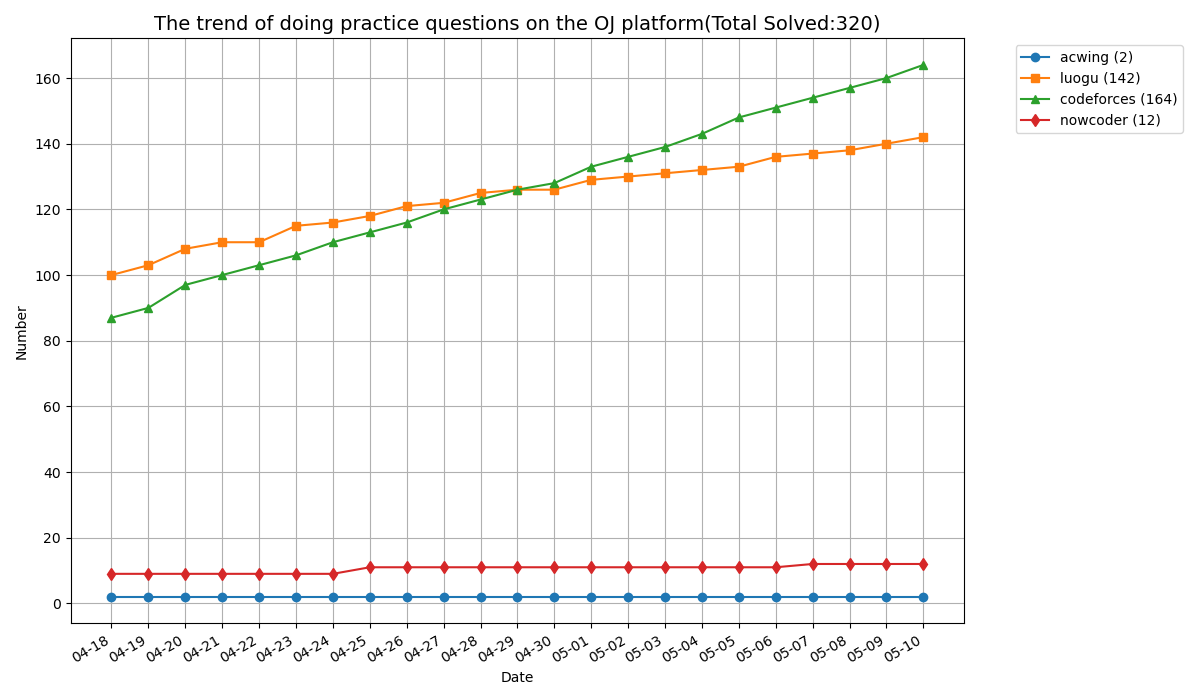
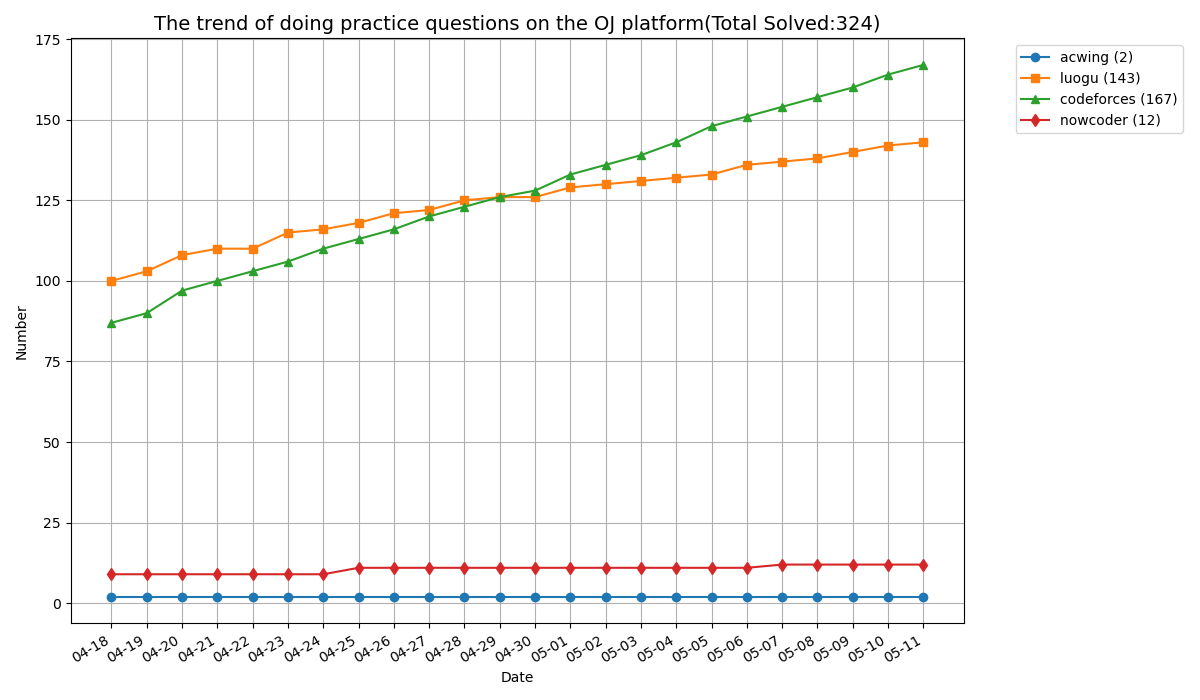
update

diff --git a/luogu/P1571/main.cpp b/luogu/P1571/main.cpp
@@ -1,0 +1,98 @@
+#include <bits/stdc++.h>
+using namespace std;
+
+#define ALL(x) (x).begin(), (x).end()
+#define MAXV(a, l, r) *std::max_element((a).begin() + (l), (a).begin() + (r))
+#define MINV(a, l, r) *std::min_element((a).begin() + (l), (a).begin() + (r))
+
+using ll = long long int;
+using ull = unsigned long long int;
+using PII = pair<int, int>;
+
+#define DEBUG
+#ifdef DEBUG
+template <typename Container>
+void PrintCon(const Container &cont)
+{
+    std::cout << "{ ";
+    if (!cont.empty())
+    {
+        auto it = cont.begin();
+        std::cout << "\033[33m" << *it++ << "\033[0m";
+        for (; it != cont.end(); ++it)
+            std::cout << " | " << "\033[33m" << *it << "\033[0m";
+    }
+    std::cout << " }" << std::endl;
+}
+
+template <typename... Args>
+void LOG(Args &&...values)
+{
+    ((std::cout << "\033[33m" << std::forward<Args>(values) << "\033[0m" << " "), ...);
+    std::cout << std::endl;
+}
+
+#else
+
+template <typename... Args>
+void LOG(Args &...args);
+template <typename Container>
+void PrintCon(const Container &cont);
+
+#endif
+
+bool BS(ll x, const vector<ll>& a)
+{
+    int l = -1, r = a.size();
+    while (l + 1 != r)
+    {
+        int mid = l + r >> 1;
+        if (a[mid] == x)
+        {
+            return true;
+        }
+        if (a[mid] >= x)
+        {
+            r = mid;
+        }
+        else
+        {
+            l = mid;
+        }
+    }
+
+    if (a[r] == x)
+    {
+        return true;
+    }
+    else
+    {
+        return false;
+    }
+}
+
+int main()
+{
+    ios::sync_with_stdio(false);
+    cin.tie(nullptr);
+    int n, m;
+    cin >> n >> m;
+    vector<ll> a(n), b(m);
+    for (int i = 0; i < n; i++)
+    {
+        cin >> a[i];
+    }
+    for (int i = 0; i < m; i++)
+    {
+        cin >> b[i];
+    }
+    sort(ALL(b));
+    for (auto i : a)
+    {
+        if (BS(i, b))
+        {
+            cout << i << ' ';
+        }
+    }
+    return 0;
+}

diff --git a/codeforces/155A/main.cpp b/codeforces/155A/main.cpp
@@ -1,0 +1,71 @@
+#include <bits/stdc++.h>
+using namespace std;
+
+#define ALL(x) (x).begin(), (x).end()
+#define MAXV(a, l, r) *std::max_element((a).begin() + (l), (a).begin() + (r))
+#define MINV(a, l, r) *std::min_element((a).begin() + (l), (a).begin() + (r))
+
+using ll = long long int;
+using ull = unsigned long long int;
+using PII = pair<int, int>;
+
+#define DEBUG
+#ifdef DEBUG
+template <typename Container>
+void PrintCon(const Container &cont)
+{
+    std::cout << "{ ";
+    if (!cont.empty())
+    {
+        auto it = cont.begin();
+        std::cout << "\033[33m" << *it++ << "\033[0m";
+        for (; it != cont.end(); ++it)
+            std::cout << " | " << "\033[33m" << *it << "\033[0m";
+    }
+    std::cout << " }" << std::endl;
+}
+
+template <typename... Args>
+void LOG(Args &&...values)
+{
+    ((std::cout << "\033[33m" << std::forward<Args>(values) << "\033[0m" << " "), ...);
+    std::cout << std::endl;
+}
+
+#else
+
+template <typename... Args>
+void LOG(Args &...args);
+template <typename Container>
+void PrintCon(const Container &cont);
+
+#endif
+
+int main()
+{
+    ios::sync_with_stdio(false);
+    cin.tie(nullptr);
+    int n;
+    cin >> n;
+    vector<int> a(n);
+    for (int i = 0; i < n; i++)
+    {
+        cin >> a[i];
+    }
+    int ans = 0, flag = 0;
+    for (int i = 1; i < n; i++)
+    {
+        for (int j = 0; j < i; j++)
+        {
+            if (a[i] > a[j])
+                flag++;
+            else if (a[i] < a[j])
+                flag--;
+        }
+        if (flag == i || flag == 0 - i)
+            ans++;
+        flag = 0;
+    }
+    cout << ans; 
+    return 0;
+}

diff --git a/codeforces/1703A/main.cpp b/codeforces/1703A/main.cpp
@@ -1,0 +1,73 @@
+#include <bits/stdc++.h>
+using namespace std;
+
+#define ALL(x) (x).begin(), (x).end()
+#define MAXV(a, l, r) *std::max_element((a).begin() + (l), (a).begin() + (r))
+#define MINV(a, l, r) *std::min_element((a).begin() + (l), (a).begin() + (r))
+
+using ll = long long int;
+using ull = unsigned long long int;
+using PII = pair<int, int>;
+
+#define DEBUG
+
+#ifdef DEBUG
+template <typename Container>
+void PrintCon(const Container &cont)
+{
+    std::cout << "{ ";
+    if (!cont.empty())
+    {
+        auto it = cont.begin();
+        std::cout << "\033[33m" << *it++ << "\033[0m";
+        for (; it != cont.end(); ++it)
+            std::cout << " | " << "\033[33m" << *it << "\033[0m";
+    }
+    std::cout << " }" << std::endl;
+}
+
+template <typename... Args>
+void LOG(Args &&...values)
+{
+    ((std::cout << "\033[33m" << std::forward<Args>(values) << "\033[0m" << " "), ...);
+    std::cout << std::endl;
+}
+#else
+template <typename... Args>
+void LOG(Args &...args);
+
+template <typename Container>
+void PrintCon(const Container &cont);
+#endif
+
+void solve()
+{
+    string s;
+    cin >> s;
+    for (char &c : s)
+    {
+        c = toupper(c);
+    }
+    if (s == "YES")
+    {
+        cout << "YES" << endl;
+    }
+    else
+    {
+        cout << "NO" << endl;
+    }
+}
+
+int main()
+{
+    ios::sync_with_stdio(false);
+    cin.tie(nullptr);
+    int t;
+    cin >> t;
+    while (t--)
+    {
+        solve();
+    }
+
+    return 0;
+}

diff --git a/codeforces/1409A/main.cpp b/codeforces/1409A/main.cpp
@@ -1,0 +1,59 @@
+#include <bits/stdc++.h>
+using namespace std;
+
+
+#define ALL(x) (x).begin(), (x).end()
+#define MAXV(a, l, r) *std::max_element((a).begin() + (l), (a).begin() + (r))
+#define MINV(a, l, r) *std::min_element((a).begin() + (l), (a).begin() + (r))
+
+
+using ll = long long int;
+using ull = unsigned long long int;
+using PII = pair<int,int>;
+
+#define DEBUG
+
+#ifdef DEBUG
+template<typename Container>
+void PrintCon(const Container& cont) {
+    std::cout << "{ ";
+    if (!cont.empty()) {
+        auto it = cont.begin();
+        std::cout <<"\033[33m"<< *it++<< "\033[0m";
+        for (; it != cont.end(); ++it)
+            std::cout << " | " <<"\033[33m"<< *it<< "\033[0m";
+    }
+    std::cout << " }" << std::endl;
+}
+
+template<typename... Args>
+void LOG(Args&&... values) {
+    ((std::cout <<"\033[33m"<< std::forward<Args>(values) << "\033[0m"<< " "), ...);
+    std::cout << std::endl;
+}
+#else
+template<typename ...Args>
+void LOG(Args& ...args);
+    
+template<typename Container>
+void PrintCon(const Container& cont);
+#endif
+
+
+void solve(){
+    ll a,b;
+    cin>>a>>b;
+    cout<<(max(a,b)-min(a,b)+10-1)/10<<endl;;
+}
+
+int main(){
+    ios::sync_with_stdio(false);
+    cin.tie(nullptr);
+    int t;
+    cin>>t;
+    while(t--){
+        solve();
+    }
+
+    return 0;
+}
